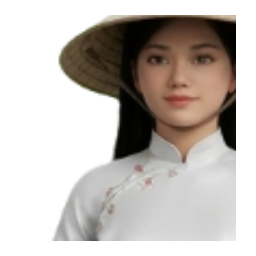
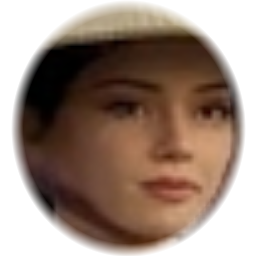
feat: Integrate official Blender white Ao Dai character from Sep, update textures, face and 3D mesh

diff --git a/src/core/CharacterFactory.js b/src/core/CharacterFactory.js
@@ -442,7 +442,7 @@ export function createHanoiCharacter3D(characterId, options = {}) {
   characterGroup.add(pelvisGroup);
 
   const pelvisMesh = createPBRMesh(
-    new THREE.CylinderGeometry(0.165, 0.155, 0.15, 24),
+    new THREE.CylinderGeometry(isFemale ? 0.088 : 0.115, isFemale ? 0.098 : 0.122, 0.12, 24),
     clothPantsMat
   );
   pelvisMesh.position.set(0, -0.04, 0);
@@ -696,7 +696,7 @@ export function createHanoiCharacter3D(characterId, options = {}) {
       transparent: true,
       roughness: 0.45,
       metalness: 0.02,
-      depthWrite: true,
+      depthWrite: false,
       side: THREE.DoubleSide
     });
     const faceMesh = createPBRMesh(faceGeo, faceMat);
@@ -704,11 +704,11 @@ export function createHanoiCharacter3D(characterId, options = {}) {
     headGroup.add(faceMesh);
   }
 
-  // Tóc 3D điêu khắc
-  const hairGeo = new THREE.SphereGeometry(0.104, 24, 20);
+  // Tóc 3D điêu khắc (ôm gọn nửa đầu phía sau và đỉnh đầu, không che mặt)
+  const hairGeo = new THREE.SphereGeometry(0.096, 24, 20);
   const hairMesh = createPBRMesh(hairGeo, hairMat);
-  hairMesh.scale.set(0.96, 1.06, 1.03);
-  hairMesh.position.set(0, 0.075, -0.012);
+  hairMesh.scale.set(0.96, 1.04, 0.95);
+  hairMesh.position.set(0, 0.075, -0.024);
   headGroup.add(hairMesh);
 
   if (charId === 'char_nu_sinh_ao_dai') {
